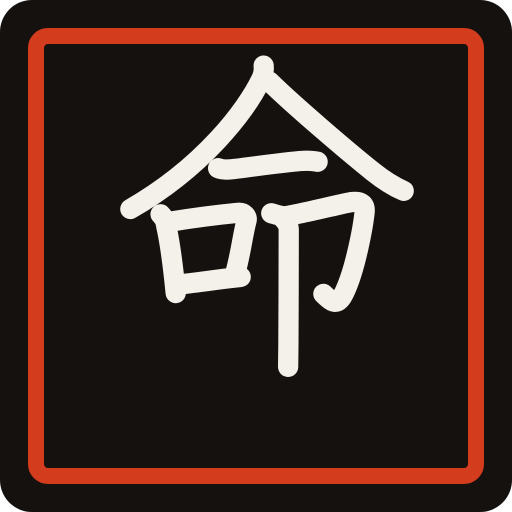
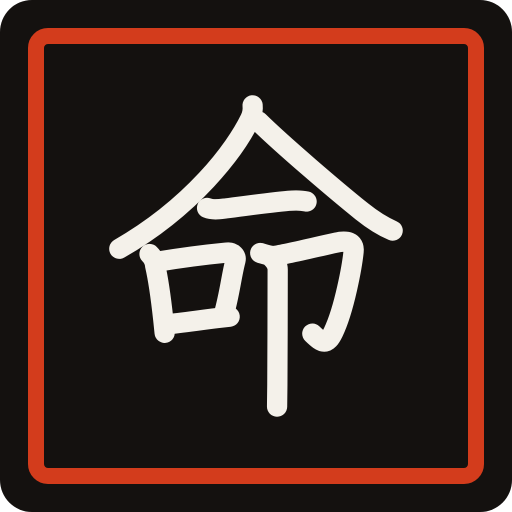
Centre the 命 mark
The glyph sat high and right in every seal. Measured by flattening the
stroke paths: the true ink bbox is x 12.25-93.25, y 10.25-99.52, so the
glyph centre is (52.75, 54.89) rather than anywhere near the origin the
old translate values assumed. Those values were inherited from the
previous mark, which also carried an orbit ring and a pulse line, and I
kept them when the seal was redrawn.

Each transform is now centre - scale * glyphCentre:
- brand-mark.tsx and icon.svg: translate(11 3) -> translate(9.8 8.9)
- inochi-mark.svg:  translate(178 62) -> translate(155.9 141.5)
- inochi-wordmark.svg: translate(78 26) -> translate(65.5 60.0), against
  the seal centre (200,200) rather than the viewBox centre
- opengraph-image.tsx: a small translate, since its 109 viewBox was
  already close

Verified by measuring the rendered PNG rather than by eye: the glyph
centre in inochi-app-512.png is now 255.5 against a target of 256, down
from being 79.5px high on that canvas.

Changed region(s): [[0.1875, 0.0938, 0.8125, 0.8125], [0.6875, 0.5625, 0.7188, 0.5938]]

diff --git a/apps/web/components/brand-mark.tsx b/apps/web/components/brand-mark.tsx
@@ -68,8 +68,14 @@ export function BrandMark({
         strokeOpacity={state === "paused" ? 0.25 : 0.45}
         strokeWidth="2"
       />
+      {/*
+        The glyph's true ink bbox is x 12.25-93.25, y 10.25-99.52, so its centre
+        is (52.75, 54.89), not the origin. The translate is therefore
+        centre - scale * glyphCentre, not an eyeballed offset. Recompute both
+        values together if the scale ever changes.
+      */}
       <g
-        transform="translate(11 3) scale(.42)"
+        transform="translate(9.8 8.9) scale(.42)"
         fill="none"
         stroke="currentColor"
         strokeWidth="6"

diff --git a/apps/web/app/opengraph-image.tsx b/apps/web/app/opengraph-image.tsx
@@ -39,7 +39,9 @@ export default function OpenGraphImage() {
             }}
           >
             <svg viewBox="0 0 109 109" width="170" height="170">
+              {/* Glyph centre is (52.75, 54.89); this viewBox centre is 54.5. */}
               <g
+                transform="translate(1.75 -0.39)"
                 fill="none"
                 stroke="#f4f1ea"
                 strokeWidth="5"
